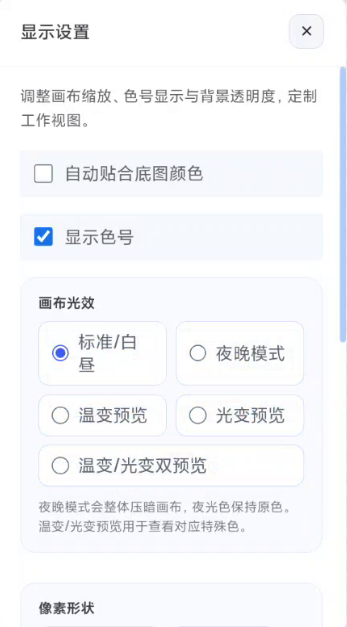
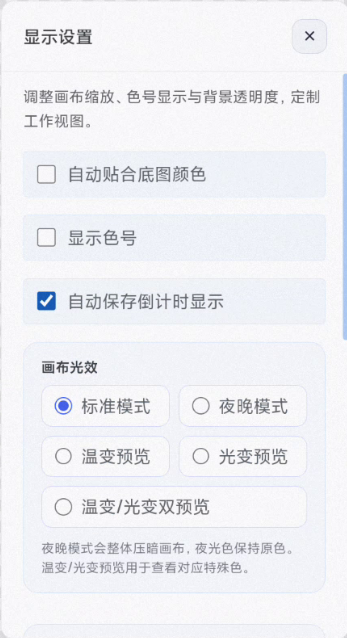
UPDATA TABLET, DOC AND TABLET

diff --git a/manual-tablet.html b/manual-tablet.html
@@ -63,6 +63,7 @@
           <li><a href="#chapter-float-ref">参考图窗口</a></li>
           <li><a href="#chapter-export">导出草图</a></li>
           <li><a href="#chapter-import-pd">导入 PD 工程文件</a></li>
+          <li><a href="#chapter-localsave">本地存储</a></li>
           <li><a href="#chapter-display">显示设置</a></li>
           <li><a href="#chapter-screen">全屏模式</a></li>
           <li><a href="#chapter-palette">调色板</a></li>
@@ -714,6 +715,10 @@
             导出窗口可自定义色号、坐标系、背景等内容，并支持高亮指定颜色单独输出。
           </p>
           <figure class="doc-image">
+            <img src="./doc-image/TOOL-export-where.png" alt="导出按钮" />
+            <figcaption class="doc-image__caption">图：导出按钮</figcaption>
+          </figure>
+          <figure class="doc-image">
             <img src="./doc-tablet-image/TOOL-export.png" alt="导出总面板" />
             <figcaption class="doc-image__caption">图：导出总面板</figcaption>
           </figure>
@@ -818,7 +823,7 @@
             <li>在导入文件窗口点击 <strong>导入 .pd 文件</strong>。</li>
           </ol>
           <figure class="doc-image">
-            <img src="./doc-image/TOOL-import.png" alt="导入入口" />
+            <img src="./doc-image/TOOL-import-where.png" alt="导入入口" />
             <figcaption class="doc-image__caption">图：导入入口</figcaption>
           </figure>
 
@@ -896,21 +901,21 @@
           <h3 class="doc-section__subtitle">自动保存</h3>
           <p class="doc-paragraph">网页<strong>每五分钟</strong>会自动保存当前的绘画数据，自动保存成功会在右下角提示或显示距离下次保存倒计时。</p>
           <figure class="doc-image">
-            <img src="./doc-image/TOOL-local-open.gif" alt="自动保存提示(显示倒计时)" />
+            <img src="./doc-tablet-image/TOOL-local-open.gif" alt="自动保存提示(显示倒计时)" />
             <figcaption class="doc-image__caption">图：自动保存提示(显示倒计时)-1分钟为演示</figcaption>
           </figure>
           <figure class="doc-image">
-            <img src="./doc-image/TOOL-local-close.gif" alt="自动保存提示(不显示倒计时)" />
+            <img src="./doc-tablet-image/TOOL-local-close.gif" alt="自动保存提示(不显示倒计时)" />
             <figcaption class="doc-image__caption">图：自动保存提示(不显示倒计时)</figcaption>
           </figure>
           <p class="doc-paragraph">在触发误退出提醒时，也会进行一次自动保存。</p>
           <figure class="doc-image">
-            <img src="./doc-image/TOOL-local-auto.gif" alt="退出自动保存" />
+            <img src="./doc-tablet-image/TOOL-local-auto.gif" alt="退出自动保存" />
             <figcaption class="doc-image__caption">图：退出自动保存</figcaption>
           </figure>
           <p class="doc-paragraph">倒计时可在 左侧工具栏 -> 显示设置 -> 自动保存倒计时显示 开关。</p>
           <figure class="doc-image">
-            <img src="./doc-image/TOOL-local-switch.gif" alt="自动保存提示(不显示倒计时)" />
+            <img src="./doc-tablet-image/TOOL-local-switch.gif" alt="自动保存提示(不显示倒计时)" />
             <figcaption class="doc-image__caption">图：倒计时开关</figcaption>
           </figure>
 
@@ -923,7 +928,7 @@
           </div>
 
           <figure class="doc-image">
-            <img src="./doc-image/TOOL-local-export-window.png" alt="手动保存窗口" />
+            <img src="./doc-tablet-image/TOOL-local-export-window.png" alt="手动保存窗口" />
             <figcaption class="doc-image__caption">图：手动保存窗口</figcaption>
           </figure>
 
@@ -931,7 +936,7 @@
           <p class="doc-paragraph">通过 左侧工具栏 -> 导入文件或本地读取 -> 读取本地存储 打开保读取窗口。</p>
           <p class="doc-paragraph">点击窗口内对应的存储位置下方的“读取”按钮读取当前存储内容。</p>
           <figure class="doc-image">
-            <img src="./doc-image/TOOL-local-import-window.png" alt="读取窗口" />
+            <img src="./doc-tablet-image/TOOL-local-import-window.png" alt="读取窗口" />
             <figcaption class="doc-image__caption">图：读取窗口</figcaption>
           </figure>
         </section>

diff --git a/js/local-storage.js b/js/local-storage.js
@@ -7,7 +7,7 @@ const STORAGE_KEY = 'local-save-slots-v1';
 const AUTOSAVE_COUNTDOWN_KEY = 'autosave-countdown-visible';
 const SLOT_COUNT = 10;
 const AUTOSAVE_SLOT = 0;
-const AUTOSAVE_INTERVAL_MS = 10 * 1000;
+const AUTOSAVE_INTERVAL_MS = 5 * 60 * 1000;
 const THUMBNAIL_SIZE = 220;
 const EMPTY_ASSET_PATH = 'svg/\u65e0.svg';
 
